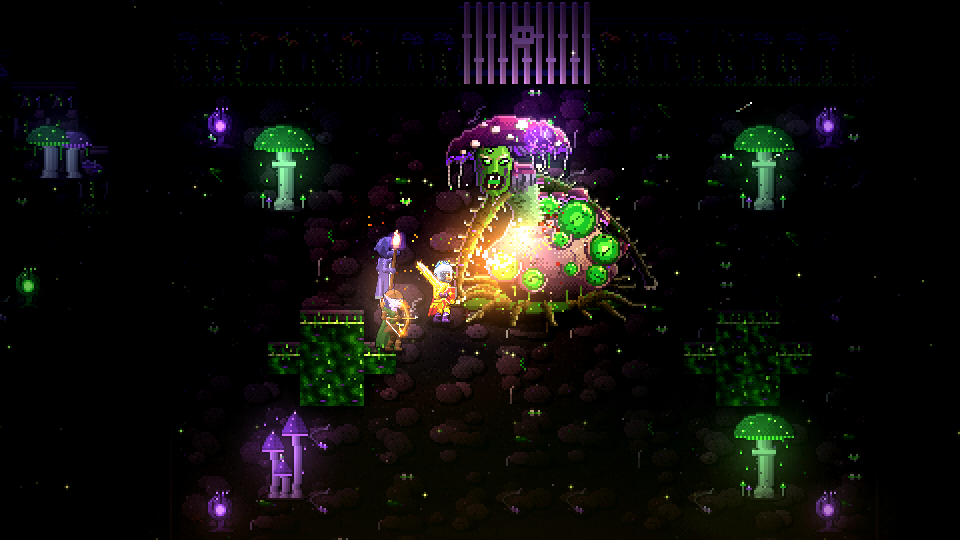
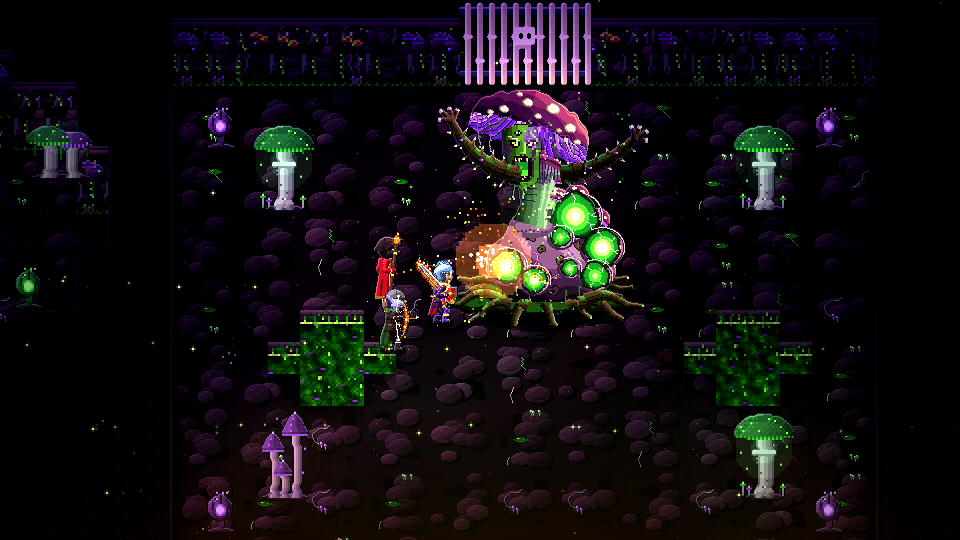
Website: Ritt in der Glutöde, Katakomben und Sporenschlund wieder hell genug
Claude-Session: https://claude.ai/code/session_016qez4g2cYdi8Ag5boUatPM

diff --git a/site/welt.html b/site/welt.html
@@ -58,7 +58,7 @@
         <div class="scene-text ef-frame"><h2>Handel</h2><p>Händler wie Imra kaufen deine Beute und haben, was du für den nächsten Kampf brauchst.</p></div>
       </article>
       <article class="scene reveal">
-        <figure><img style="--fx:0.52;--fy:0.52" class="px shot" src="img/welt-ritt.webp" alt="Krieger auf der Reifschwinge verlässt Frosthold durch den verschneiten Wald" width="960" height="540" loading="lazy"></figure>
+        <figure><img style="--fx:0.52;--fy:0.52" class="px shot" src="img/welt-ritt.webp" alt="Krieger auf der Reifschwinge reitet auf der Straße durch die Glutöde" width="960" height="540" loading="lazy"></figure>
         <div class="scene-text ef-frame"><h2>Reittiere</h2><p>Ab Stufe 20 trägt dich ein Reittier durch die Welt. Die seltensten lassen nur Bosse fallen.</p></div>
       </article>
       <article class="scene r reveal">
